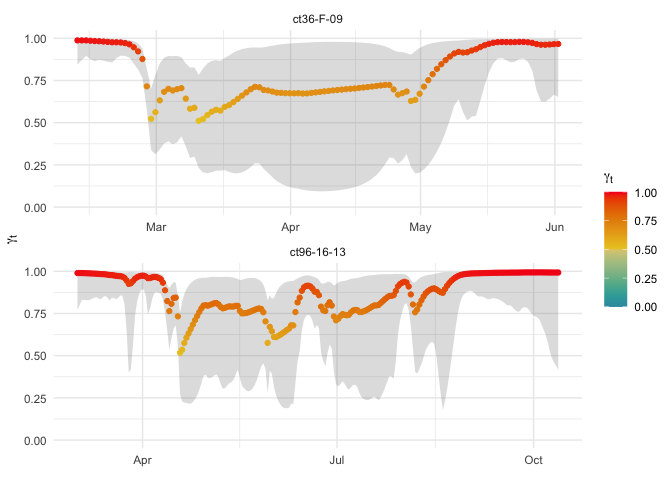
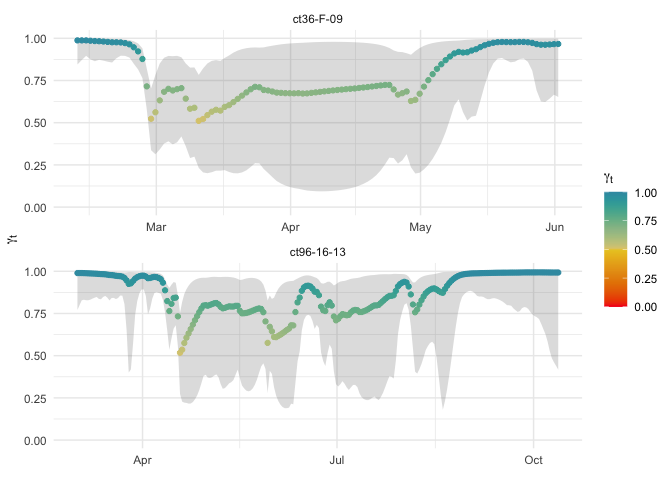
update badges, tweak figs

diff --git a/README.md b/README.md
@@ -19,12 +19,10 @@ status](https://codecov.io/gh/ianjonsen/foieGras/branch/master/graph/badge.svg)]
 [![DOI](https://zenodo.org/badge/DOI/10.5281/zenodo.2628481.svg)](https://doi.org/10.5281/zenodo.2628481)
 
 master branch:  
-[![Build
-Status](https://travis-ci.com/ianjonsen/foieGras.svg?branch=master)](https://travis-ci.com/ianjonsen/foieGras)
+![R-CMD-check](https://github.com/ianjonsen/foieGras/actions/workflows/check-full.yaml/badge.svg?branch=master)
 
 dev branch:  
-[![Build
-Status](https://travis-ci.com/ianjonsen/foieGras.svg?branch=dev)](https://travis-ci.com/ianjonsen/foieGras)
+![R-CMD-check](https://github.com/ianjonsen/foieGras/actions/workflows/check-full.yaml/badge.svg?branch=dev)
 <!-- badges: end -->
 
 `foieGras` is an R package that fits a continuous-time model (RW or CRW)
@@ -42,8 +40,8 @@ SSM-estimated most-probable track.
 
 ## Installation
 
-First, ensure you have R version \>= 3.6.0 installed (preferably R 4.0.0
-or higher):
+First, ensure you have R version &gt;= 3.6.0 installed (preferably R
+4.0.0 or higher):
 
 ``` r
 R.Version()
@@ -54,8 +52,7 @@ R.Version()
 `foieGras` is on [CRAN](https://cran.r-project.org/package=foieGras) and
 can be downloaded within `R`, in the usual way
 `install.packages("foieGras")` or, more completely:
-`install.packages("foieGras", depedencies =
-c("Imports","LinkingTo","Suggests"))`
+`install.packages("foieGras", depedencies = c("Imports","LinkingTo","Suggests"))`
 
 ### From GitHub (source)
 
@@ -113,20 +110,18 @@ plot(fit, what = "predicted")
 ![](man/figures/README-example-1.png)<!-- -->
 
 ``` r
-
 fmp <- fit %>% 
   grab(what = "predicted", as_sf = FALSE) %>%
   select(id, date, lon, lat) %>%
   fit_mpm(model = "jmpm", verbose = 0) ## turn off parameter trace for tidy output
 
-plot(fmp)
+plot(fmp, pal = "Zissou1", rev = TRUE)
 ```
 
 ![](man/figures/README-example-2.png)<!-- -->
 
 ``` r
-
-fmap(fit, fmp, what = "predicted", crs = "+proj=stere +lon_0=99 +units=km +ellps=WGS84")
+fmap(fit, fmp, what = "predicted", crs = "+proj=stere +lon_0=99 +units=km +ellps=WGS84", pal = "Cividis")
 ```
 
 ![](man/figures/README-example-3.png)<!-- -->
